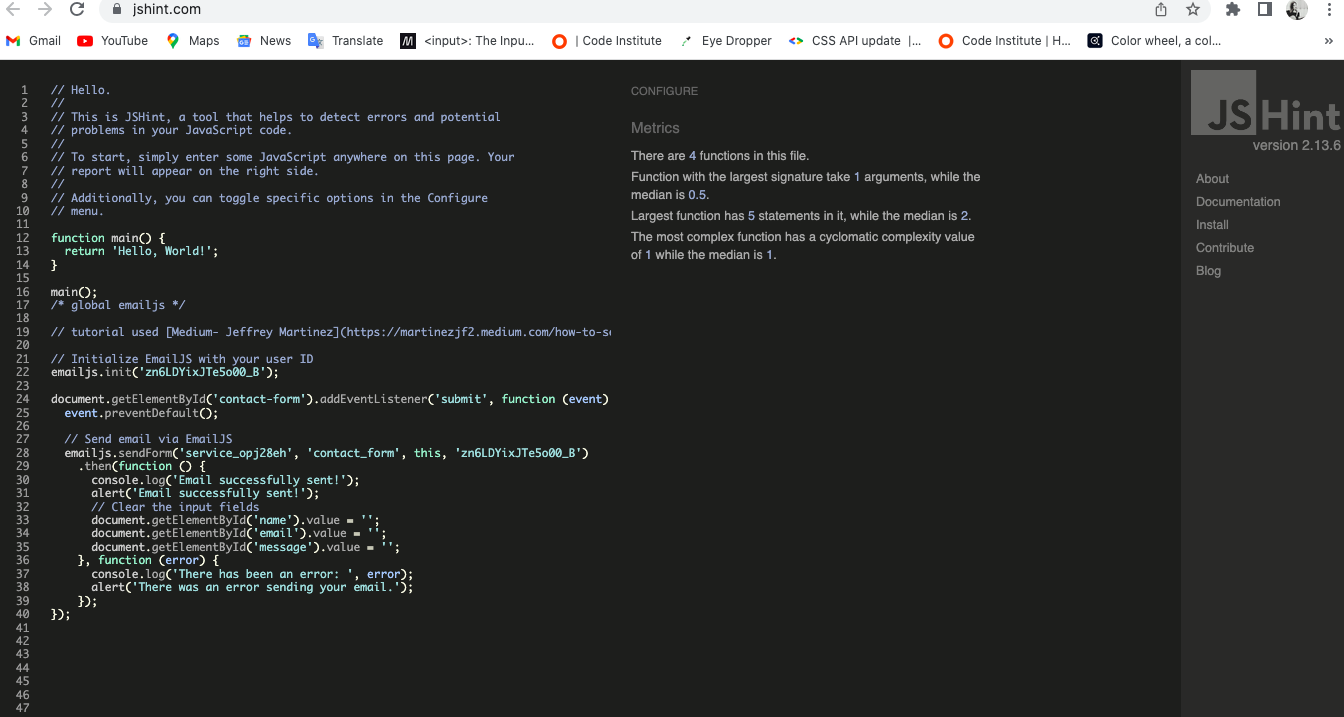
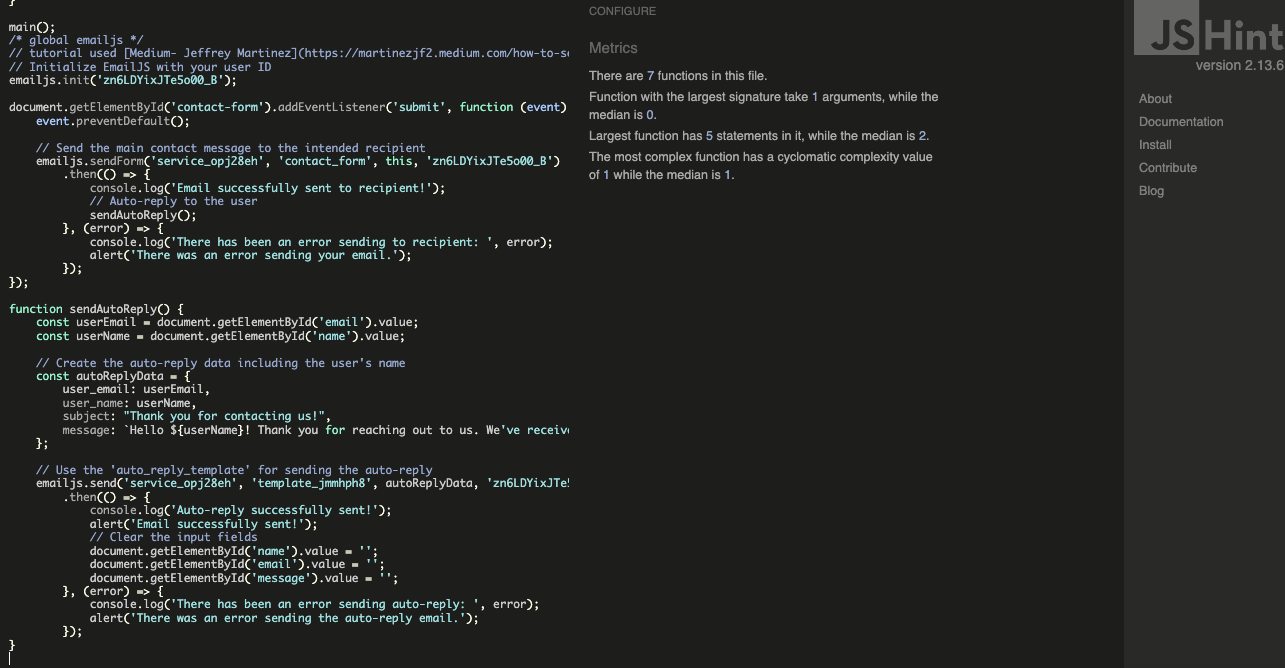
added bug to readme, minor change to leaderboard and to css.
added old email bug to readme, minor change to leaderboard to hide Play Again? button when leaderboard's empty and tested new code with jshint- result added to testing file. Minor changes to css, added some bottom margin to quiz container.

Changed region(s): [[0.0, 0.0, 1.0, 0.988], [0.8716, 0.3593, 0.9027, 0.3892], [0.4047, 0.3593, 0.4358, 0.3892]]

diff --git a/assets/js/leaderboard.js b/assets/js/leaderboard.js
@@ -7,6 +7,13 @@ function displayLeaderboard() {
 
   let leaderboard = JSON.parse(localStorage.getItem('scores')) || [];
 
+  // Check if the leaderboard is empty and hide the 'Play Again?' button
+  if (leaderboard.length === 0) {
+    backButton.style.display = 'none';
+  } else {
+    backButton.style.display = 'block'; // Ensure the button is visible when there are leaderboard entries
+  }
+
   leaderboard.sort((a, b) => b.score - a.score || new Date(a.time) - new Date(b.time));
 
   leaderboard.forEach((entry, index) => {

diff --git a/assets/css/style.css b/assets/css/style.css
@@ -28,6 +28,7 @@ body {
   background-color: rgba(255, 255, 255, 0.5);
   border-radius: 15px;
   text-align: center;
+  margin-bottom: 80px;
 }
 
 .quiz-header,

diff --git a/README.md b/README.md
@@ -223,7 +223,8 @@ The developer ran into several issues during the development of the website, wit
 | 2    |Congrats music isn't playing when player scores 100%        |  Found two instances of the audio tag with the same id "congrats-music" in the HTML code, bug fixed after removing one.         |
 | 3    | Buttons display with different sizes and not responsive      | Fixed the bug using Flexbox and I used percentages to specify the button widths, which can help with fluid layouts         |
 | 4   | The Questions being pulled in from the JSON have HTML entity characters that are not escaped and therefore display incorrectly with symbols in place of the correct characters.      | Learnt that JSON does not support HTML character entities; it uses its own set of escape sequences. The HTML entities need to be converted back to their equivalent normal characters before being stored in JSON. Fixed bug using innerHTML rather than innerText. |
-| 5   | There is a a warning displaying in the console on the live page. This error seems to be because GitHub hosted pages disable googles 3rd party cookie alternative FLoC, which then throws this error. The error doesn't affect the site in any way. | This bug is still present.
+| 5   | There is a a warning displaying in the console on the live page. This error seems to be because GitHub hosted pages disable googles 3rd party cookie alternative FLoC, which then throws this error. The error doesn't affect the site in any way. | This bug is still present. |
+| 6   | When the auto-response is triggered, it currently sends duplicate emails to both the developer's inbox and the user's inbox. The desired behavior is to send only the auto-response to the user, while the developer receives the original user message.  | I introduced a distinct EmailJS template specifically for the auto-reply, which I named auto_reply_template. Within this new auto_reply_template, I configured user_email as the sole recipient to ensure the auto-reply reaches only the user. Finally, I modified the sendAutoReply function, instructing it to dispatch the auto-reply using the newly created template. |
 
 ## Technologies Used
 
